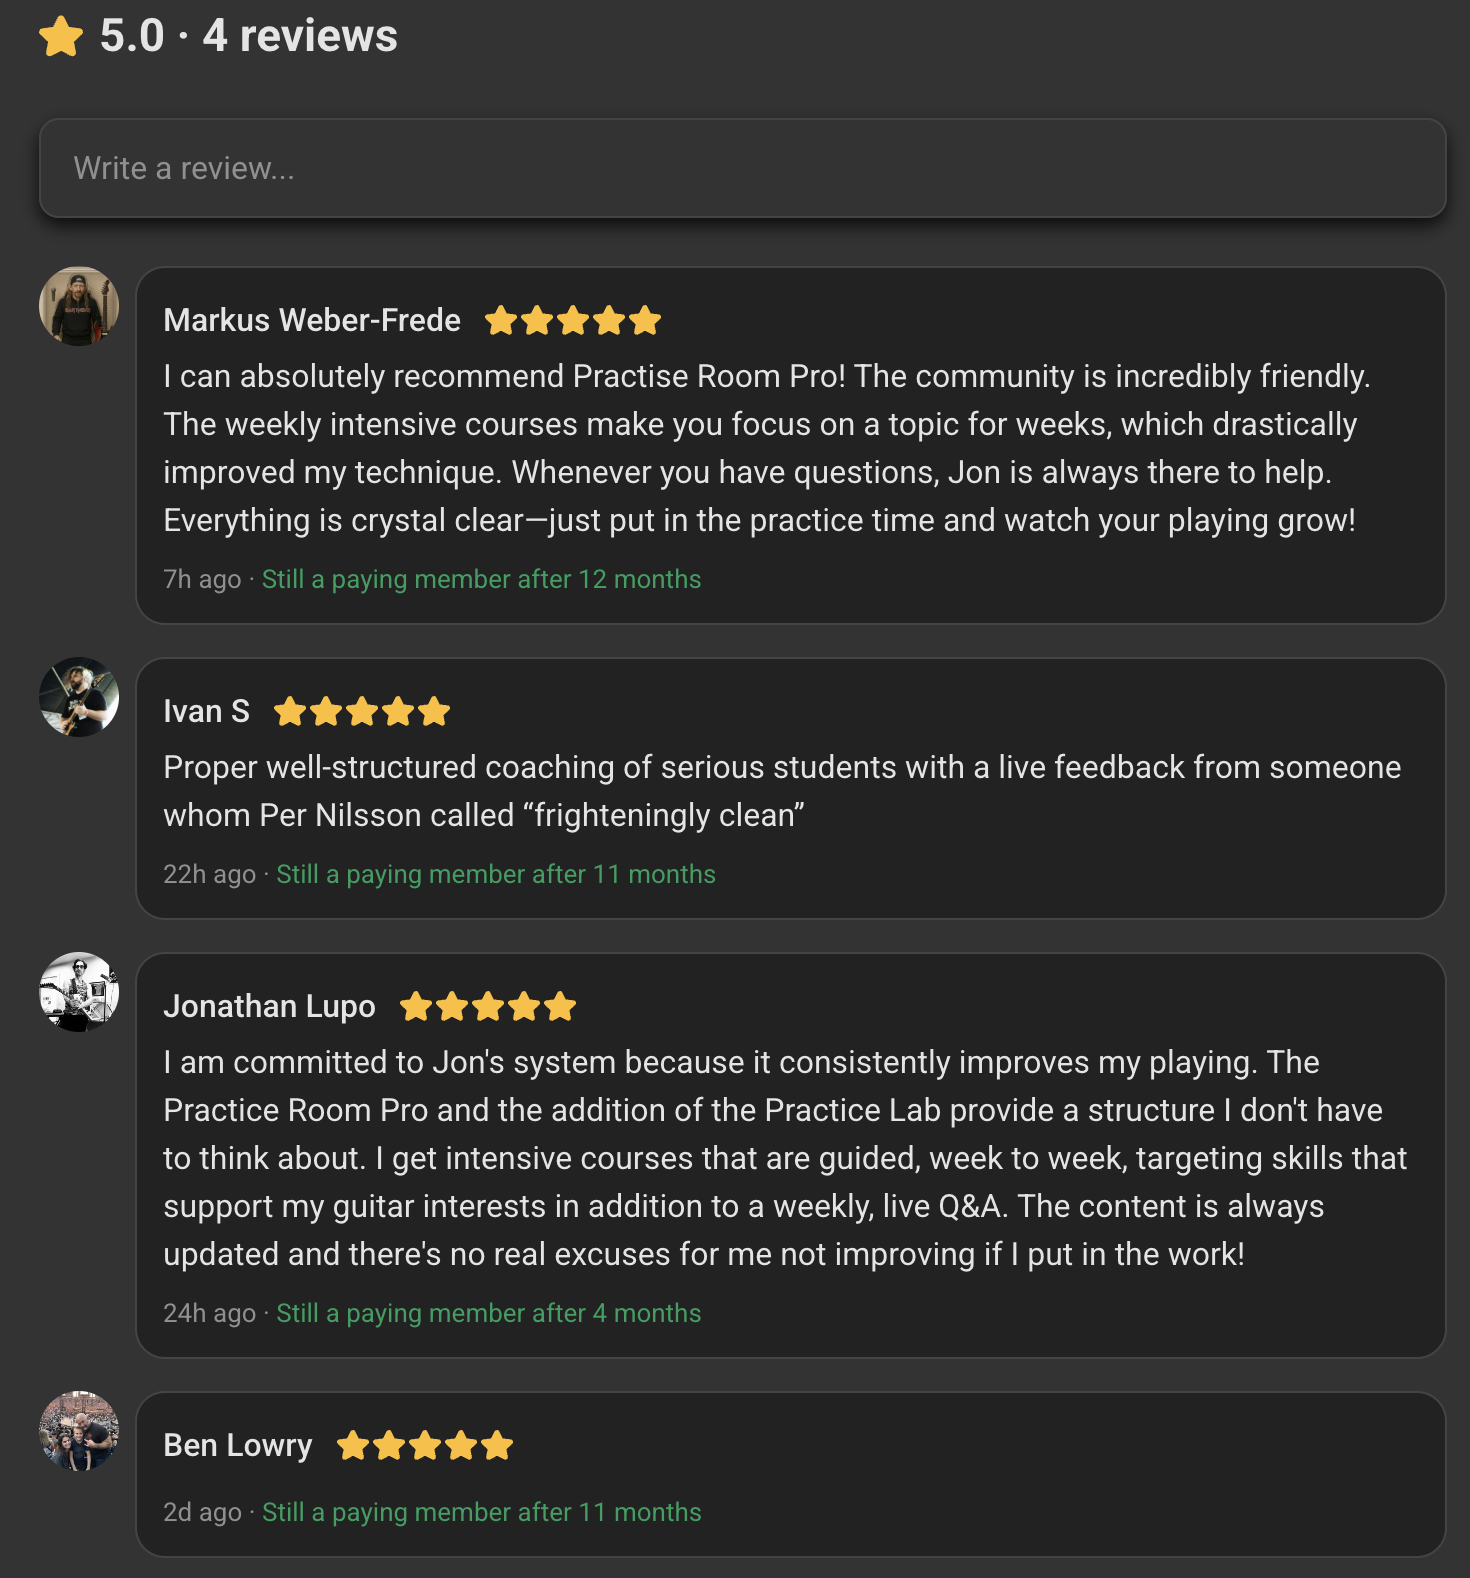
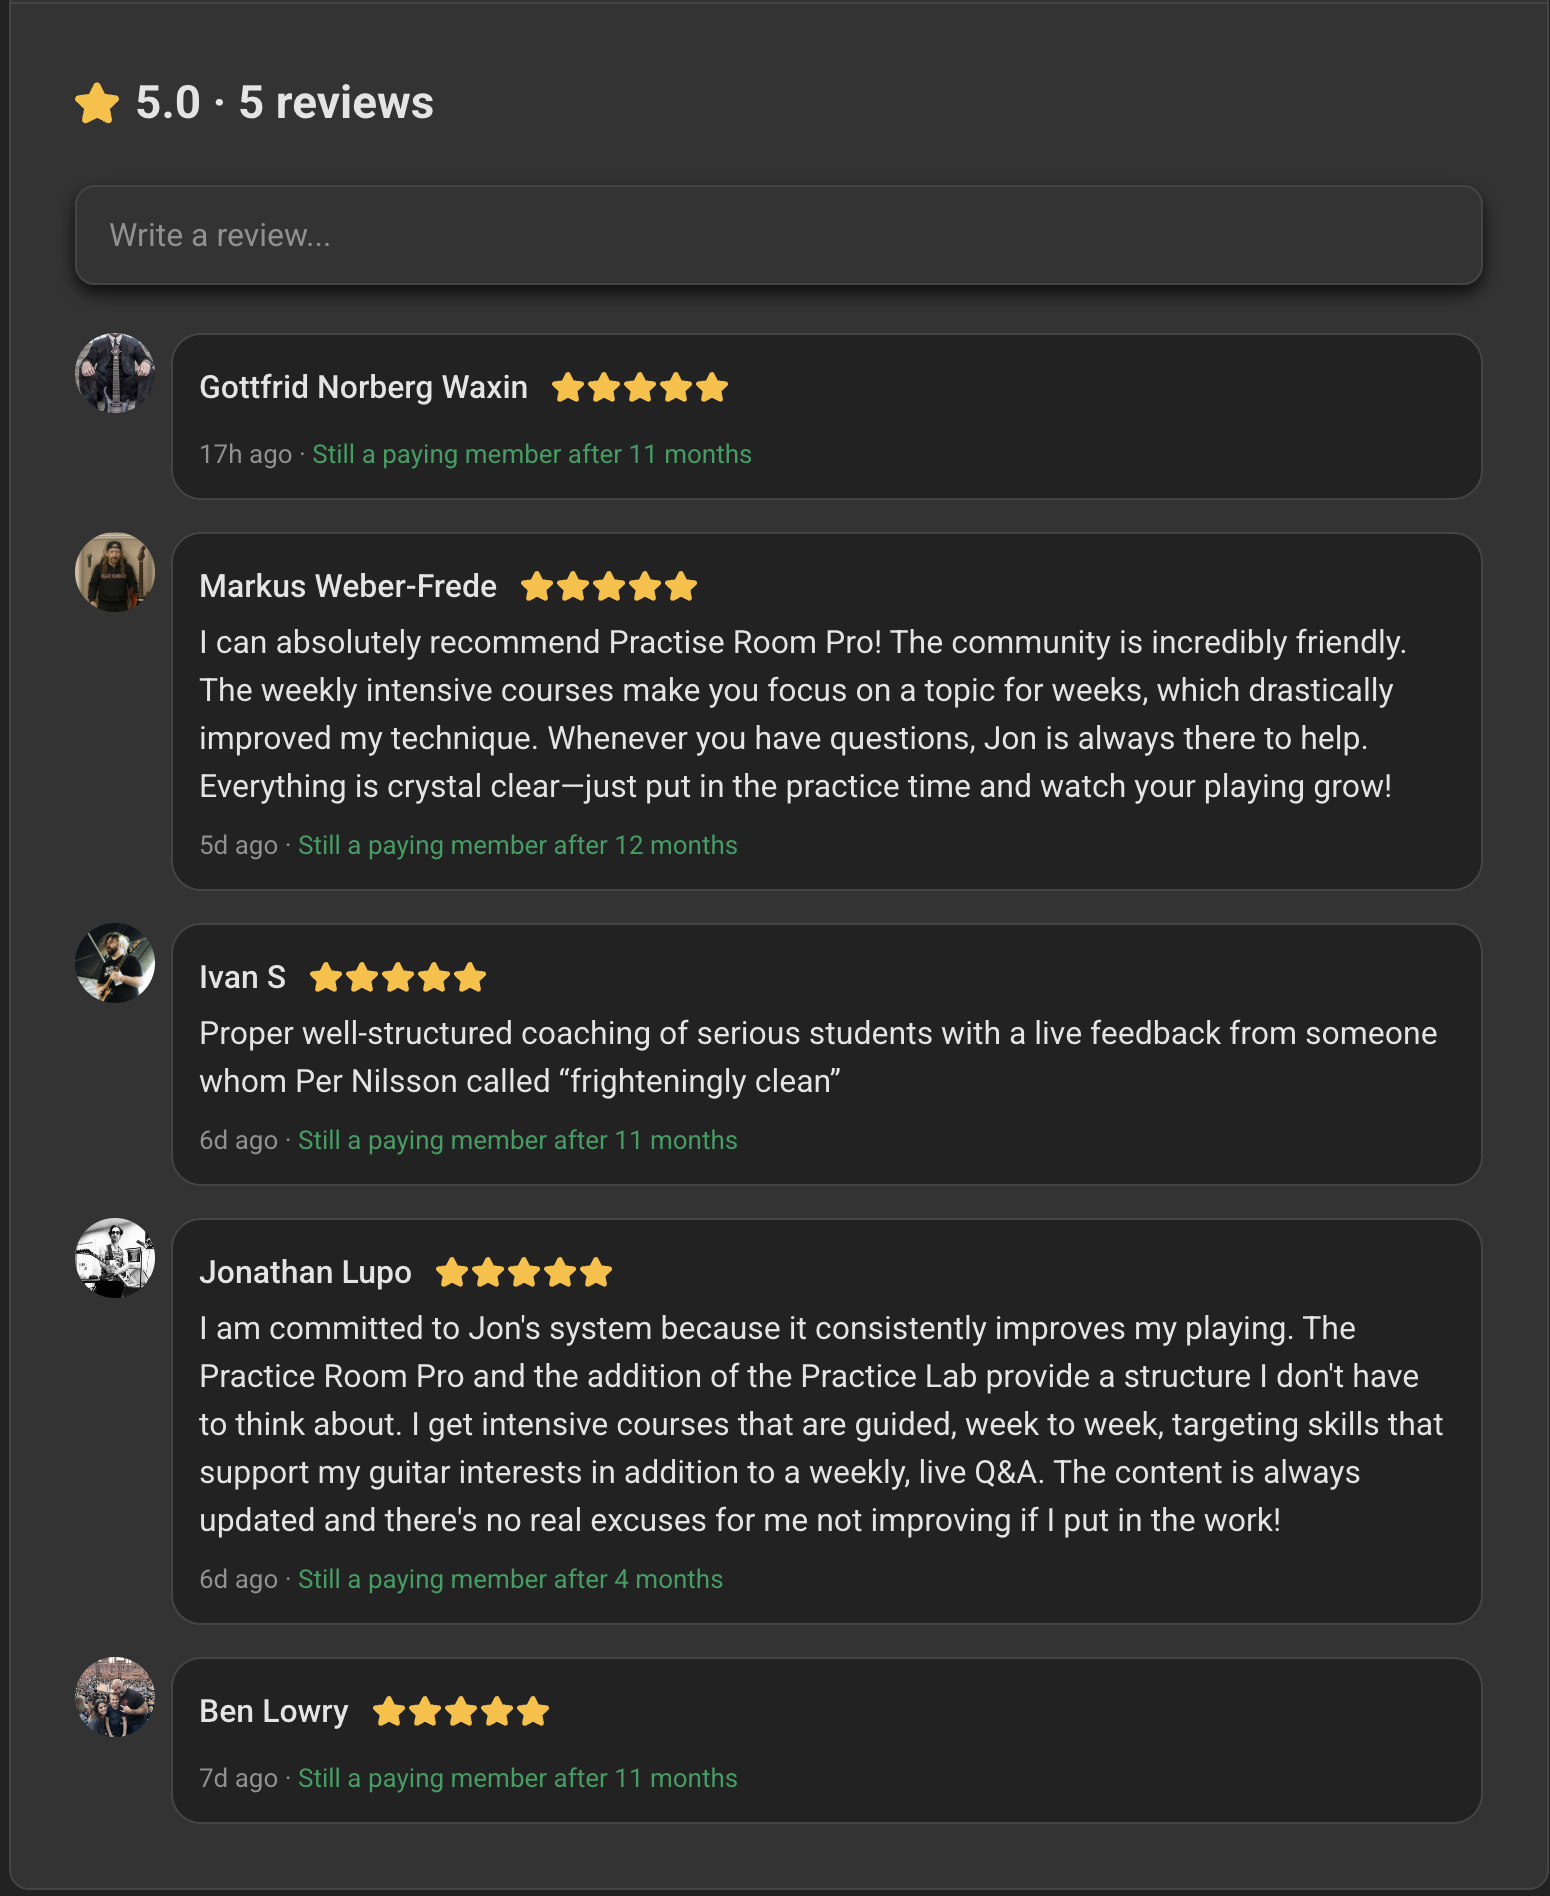
Review

Changed region(s): [[0.0306, 0.0932, 0.949, 0.8384], [0.0306, 0.8695, 0.4898, 0.9626], [0.0306, 0.0, 0.2755, 0.0621]]

diff --git a/practiceroom/index.html b/practiceroom/index.html
@@ -878,7 +878,7 @@
       <div class="narrow" style="margin-top:48px; text-align:center;">
         <span class="tag">From Pro Members</span>
         <p style="margin:14px 0 22px;">Reviews on the Practice Room Pro page.</p>
-        <img src="/pro/assets/pro-reviews.png" alt="Skool reviews for Practice Room Pro: 5.0 from four reviews, left by members still paying after 12, 11, 11 and 4 months" style="width:100%; max-width:600px; height:auto; border-radius:12px; border:1px solid var(--line);" loading="lazy" />
+        <img src="/pro/assets/pro-reviews.png" alt="Skool reviews for Practice Room Pro: 5.0 from five reviews, left by members still paying after 12, 11, 11, 11 and 4 months" style="width:100%; max-width:600px; height:auto; border-radius:12px; border:1px solid var(--line);" loading="lazy" />
       </div>
     </div>
   </section>
